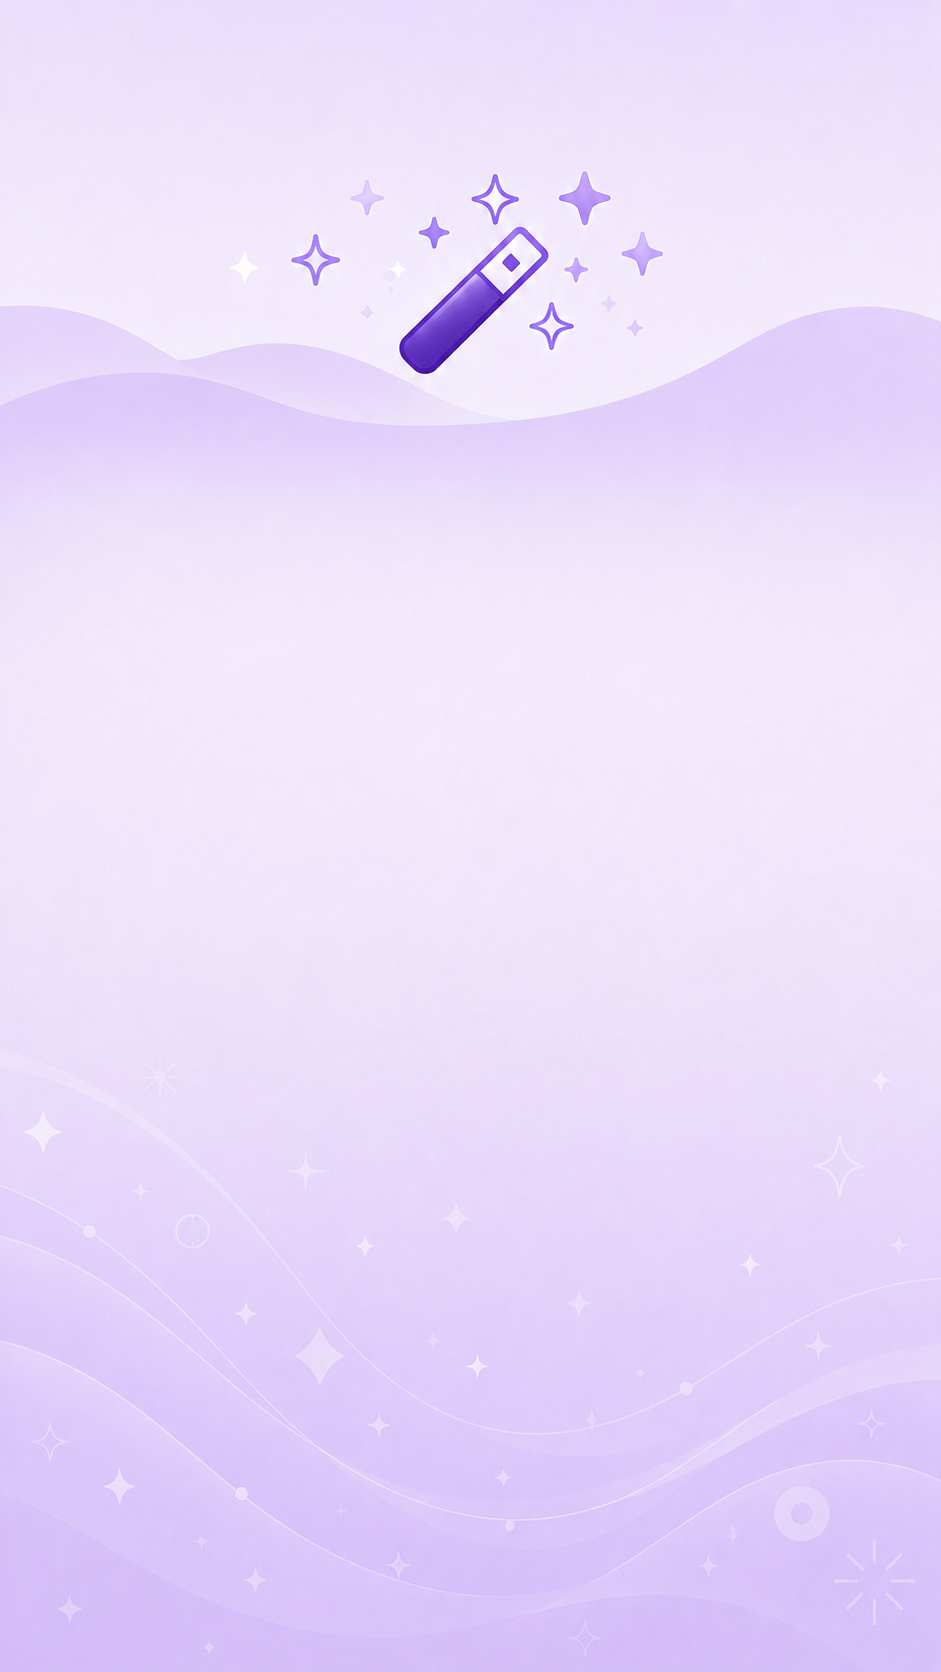
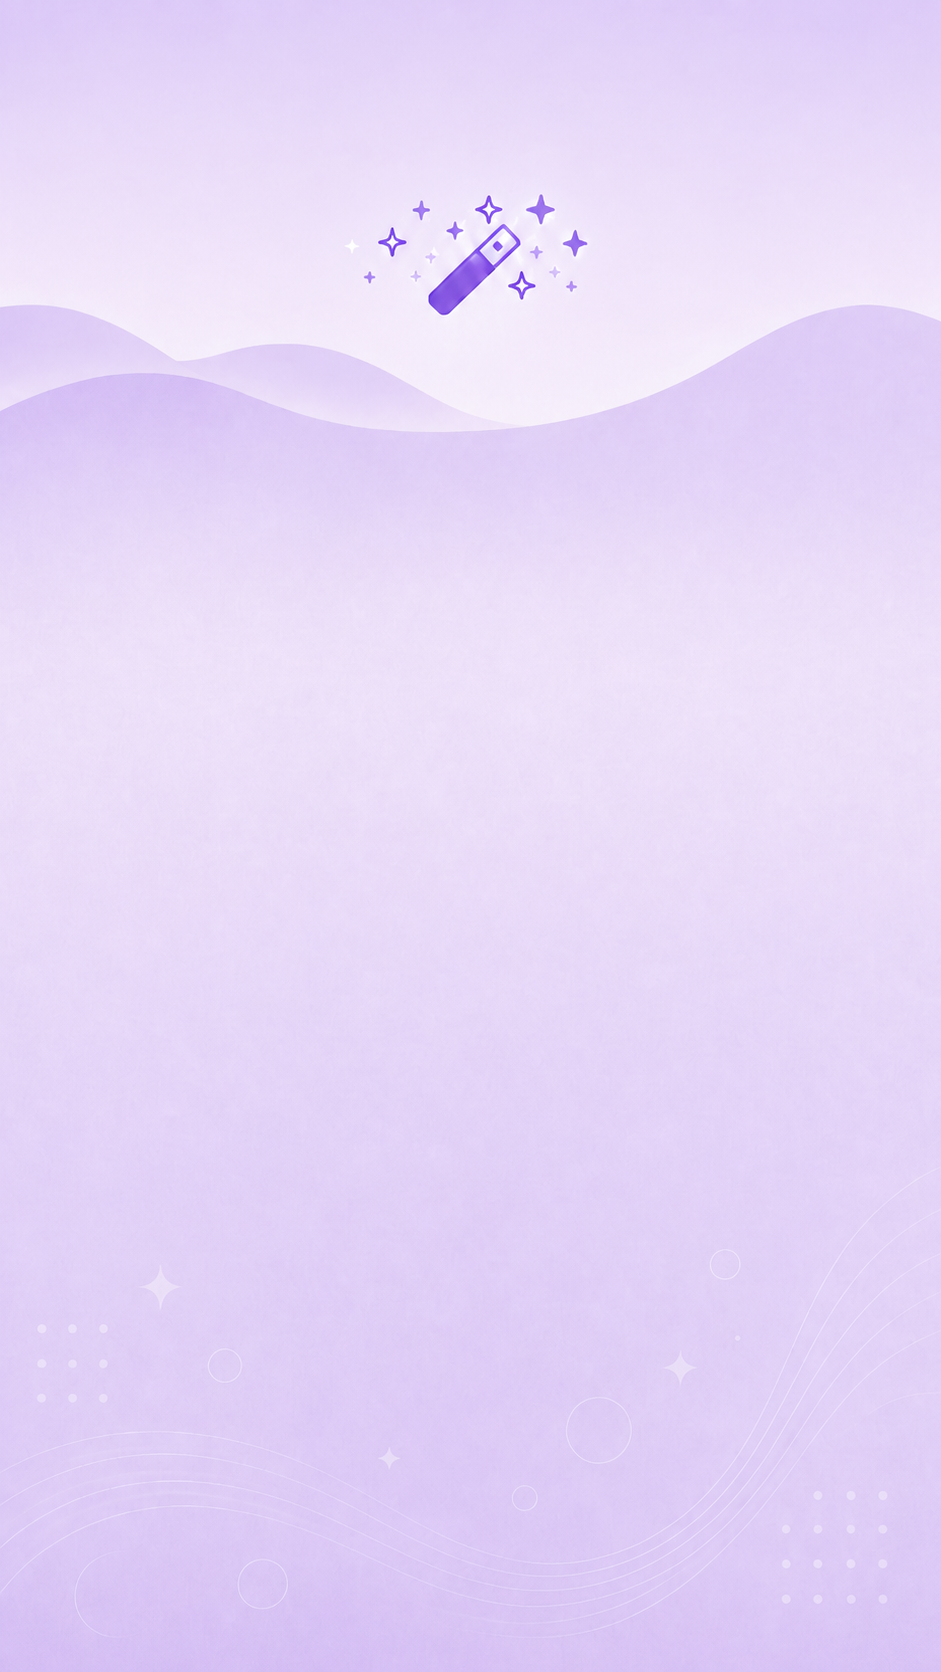
feat: standardize app title to 'ReplyWise' across all localizations and update related assets

diff --git a/app/test/locale_controller_test.dart b/app/test/locale_controller_test.dart
@@ -4,6 +4,7 @@ import 'dart:io';
 import 'package:flutter/material.dart';
 import 'package:flutter_riverpod/flutter_riverpod.dart';
 import 'package:flutter_test/flutter_test.dart';
+import 'package:replywise/core/constants/app_brand.dart';
 import 'package:replywise/core/localization/locale_controller.dart';
 import 'package:replywise/core/localization/localization_extensions.dart';
 import 'package:replywise/features/guidance/data/guidance_library_repository.dart';
@@ -11,6 +12,15 @@ import 'package:replywise/l10n/app_localizations.dart';
 import 'package:shared_preferences/shared_preferences.dart';
 
 void main() {
+  test('brand name is fixed across every supported localization', () async {
+    for (final locale in AppLocalizations.supportedLocales) {
+      final localizations = await AppLocalizations.delegate.load(locale);
+
+      expect(localizations.appTitle, appBrandName, reason: locale.toString());
+      expect(localizations.appTitle, 'ReplyWise', reason: locale.toString());
+    }
+  });
+
   test('every advertised locale has a complete message catalog', () {
     final directory = Directory('lib/l10n');
     final english =
@@ -119,6 +129,8 @@ void main() {
                     children: [
                       Text(context.l10n.settings),
                       Text(context.l10n.generateReply),
+                      const Text(appBrandName),
+                      Text(context.l10n.appTitle),
                       Text(context.l10n.premiumTitle),
                       Text(context.l10n.credits),
                     ],
@@ -139,8 +151,10 @@ void main() {
 
     expect(find.text('设置'), findsOneWidget);
     expect(find.text('生成回复'), findsOneWidget);
+    expect(find.text(appBrandName), findsNWidgets(2));
     expect(find.text('ReplyWise 高级版'), findsOneWidget);
     expect(find.text('积分'), findsOneWidget);
+    expect(find.text('ReplyWise'), findsNWidgets(2));
     expect(find.text('Generate Reply'), findsNothing);
     expect(find.text('Credits'), findsNothing);
   });

diff --git a/app/lib/features/home/home_screen.dart b/app/lib/features/home/home_screen.dart
@@ -2,8 +2,9 @@ import 'package:flutter/material.dart';
 import 'package:flutter_riverpod/flutter_riverpod.dart';
 import 'package:go_router/go_router.dart';
 
-import '../../core/router/app_router.dart';
+import '../../core/constants/app_brand.dart';
 import '../../core/localization/localization_extensions.dart';
+import '../../core/router/app_router.dart';
 import '../../core/theme/app_colors.dart';
 import '../../core/theme/app_feature_theme.dart';
 import '../../core/theme/app_text_styles.dart';
@@ -178,7 +179,7 @@ class _HomeNavBar extends StatelessWidget {
                     colors: [Color(0xFF3D6FFF), Color(0xFF00C2CB)],
                   ).createShader(bounds),
                   child: Text(
-                    context.l10n.appTitle,
+                    appBrandName,
                     maxLines: 1,
                     overflow: TextOverflow.ellipsis,
                     style: AppTextStyles.pageTitle.copyWith(

diff --git a/app/lib/l10n/app_localizations_ar.dart b/app/lib/l10n/app_localizations_ar.dart
@@ -9,7 +9,7 @@ class AppLocalizationsAr extends AppLocalizations {
   AppLocalizationsAr([String locale = 'ar']) : super(locale);
 
   @override
-  String get appTitle => 'الرد الحكيم';
+  String get appTitle => 'ReplyWise';
 
   @override
   String get systemDefault => 'إعداد النظام';
@@ -562,7 +562,7 @@ class AppLocalizationsAr extends AppLocalizations {
   String get replyCtaTitle => 'هل تريد ردًا يتوافق بشكل أفضل مع نيتك؟';
 
   @override
-  String get premiumTitle => 'الرد الحكيم بريميوم';
+  String get premiumTitle => 'ReplyWise بريميوم';
 
   @override
   String get back => 'خلف';

diff --git a/app/lib/l10n/app_localizations_es.dart b/app/lib/l10n/app_localizations_es.dart
@@ -9,7 +9,7 @@ class AppLocalizationsEs extends AppLocalizations {
   AppLocalizationsEs([String locale = 'es']) : super(locale);
 
   @override
-  String get appTitle => 'Responder sabiamente';
+  String get appTitle => 'ReplyWise';
 
   @override
   String get systemDefault => 'Predeterminado del sistema';
@@ -568,7 +568,7 @@ class AppLocalizationsEs extends AppLocalizations {
       '¿Quieres una respuesta que se ajuste mejor a tu intención?';
 
   @override
-  String get premiumTitle => 'ResponderWise Premium';
+  String get premiumTitle => 'ReplyWise Premium';
 
   @override
   String get back => 'Atrás';

diff --git a/app/lib/l10n/app_localizations_fr.dart b/app/lib/l10n/app_localizations_fr.dart
@@ -9,7 +9,7 @@ class AppLocalizationsFr extends AppLocalizations {
   AppLocalizationsFr([String locale = 'fr']) : super(locale);
 
   @override
-  String get appTitle => 'RépondreWise';
+  String get appTitle => 'ReplyWise';
 
   @override
   String get systemDefault => 'Langue du système';
@@ -568,7 +568,7 @@ class AppLocalizationsFr extends AppLocalizations {
       'Vous souhaitez une réponse qui correspond mieux à votre intention ?';
 
   @override
-  String get premiumTitle => 'RépondreWise Premium';
+  String get premiumTitle => 'ReplyWise Premium';
 
   @override
   String get back => 'Dos';

diff --git a/app/lib/l10n/app_localizations_hi.dart b/app/lib/l10n/app_localizations_hi.dart
@@ -9,7 +9,7 @@ class AppLocalizationsHi extends AppLocalizations {
   AppLocalizationsHi([String locale = 'hi']) : super(locale);
 
   @override
-  String get appTitle => 'उत्तर बुद्धिमानी से दें';
+  String get appTitle => 'ReplyWise';
 
   @override
   String get systemDefault => 'सिस्टम डिफ़ॉल्ट';
@@ -566,7 +566,7 @@ class AppLocalizationsHi extends AppLocalizations {
       'क्या आप ऐसा उत्तर चाहते हैं जो आपके इरादे से बेहतर मेल खाता हो?';
 
   @override
-  String get premiumTitle => 'उत्तरवार प्रीमियम';
+  String get premiumTitle => 'ReplyWise प्रीमियम';
 
   @override
   String get back => 'पीछे';

diff --git a/app/lib/l10n/app_localizations_id.dart b/app/lib/l10n/app_localizations_id.dart
@@ -9,7 +9,7 @@ class AppLocalizationsId extends AppLocalizations {
   AppLocalizationsId([String locale = 'id']) : super(locale);
 
   @override
-  String get appTitle => 'Balasan Bijaksana';
+  String get appTitle => 'ReplyWise';
 
   @override
   String get systemDefault => 'Default sistem';
@@ -566,7 +566,7 @@ class AppLocalizationsId extends AppLocalizations {
       'Ingin balasan yang lebih sesuai dengan niat Anda?';
 
   @override
-  String get premiumTitle => 'Balasan Bijaksana Premium';
+  String get premiumTitle => 'ReplyWise Premium';
 
   @override
   String get back => 'Kembali';

diff --git a/app/lib/l10n/app_localizations_ja.dart b/app/lib/l10n/app_localizations_ja.dart
@@ -9,7 +9,7 @@ class AppLocalizationsJa extends AppLocalizations {
   AppLocalizationsJa([String locale = 'ja']) : super(locale);
 
   @override
-  String get appTitle => '返信ワイズ';
+  String get appTitle => 'ReplyWise';
 
   @override
   String get systemDefault => 'システムのデフォルト';
@@ -549,7 +549,7 @@ class AppLocalizationsJa extends AppLocalizations {
   String get replyCtaTitle => '自分の意図にもっと合致する返信が欲しいですか?';
 
   @override
-  String get premiumTitle => 'リプライワイズ プレミアム';
+  String get premiumTitle => 'ReplyWise プレミアム';
 
   @override
   String get back => '戻る';

diff --git a/app/lib/l10n/app_localizations_ko.dart b/app/lib/l10n/app_localizations_ko.dart
@@ -9,7 +9,7 @@ class AppLocalizationsKo extends AppLocalizations {
   AppLocalizationsKo([String locale = 'ko']) : super(locale);
 
   @override
-  String get appTitle => '답글 현명하게';
+  String get appTitle => 'ReplyWise';
 
   @override
   String get systemDefault => '시스템 기본값';
@@ -548,7 +548,7 @@ class AppLocalizationsKo extends AppLocalizations {
   String get replyCtaTitle => '귀하의 의도에 더 잘 맞는 답변을 원하시나요?';
 
   @override
-  String get premiumTitle => '댓글와이즈 프리미엄';
+  String get premiumTitle => 'ReplyWise 프리미엄';
 
   @override
   String get back => '뒤쪽에';

diff --git a/app/lib/l10n/app_localizations_pl.dart b/app/lib/l10n/app_localizations_pl.dart
@@ -9,7 +9,7 @@ class AppLocalizationsPl extends AppLocalizations {
   AppLocalizationsPl([String locale = 'pl']) : super(locale);
 
   @override
-  String get appTitle => 'Odpowiedz mądrze';
+  String get appTitle => 'ReplyWise';
 
   @override
   String get systemDefault => 'Domyślny systemu';
@@ -567,7 +567,7 @@ class AppLocalizationsPl extends AppLocalizations {
       'Chcesz otrzymać odpowiedź, która lepiej odpowiada Twoim intencjom?';
 
   @override
-  String get premiumTitle => 'RepWise Premium';
+  String get premiumTitle => 'ReplyWise Premium';
 
   @override
   String get back => 'Z powrotem';

diff --git a/app/lib/l10n/app_localizations_pt.dart b/app/lib/l10n/app_localizations_pt.dart
@@ -9,7 +9,7 @@ class AppLocalizationsPt extends AppLocalizations {
   AppLocalizationsPt([String locale = 'pt']) : super(locale);
 
   @override
-  String get appTitle => 'ResponderWise';
+  String get appTitle => 'ReplyWise';
 
   @override
   String get systemDefault => 'Padrão do sistema';
@@ -566,7 +566,7 @@ class AppLocalizationsPt extends AppLocalizations {
       'Quer uma resposta que corresponda melhor à sua intenção?';
 
   @override
-  String get premiumTitle => 'ResponderWise Premium';
+  String get premiumTitle => 'ReplyWise Premium';
 
   @override
   String get back => 'Voltar';

diff --git a/app/lib/l10n/app_localizations_th.dart b/app/lib/l10n/app_localizations_th.dart
@@ -9,7 +9,7 @@ class AppLocalizationsTh extends AppLocalizations {
   AppLocalizationsTh([String locale = 'th']) : super(locale);
 
   @override
-  String get appTitle => 'ตอบกลับWise';
+  String get appTitle => 'ReplyWise';
 
   @override
   String get systemDefault => 'ค่าเริ่มต้นของระบบ';
@@ -566,7 +566,7 @@ class AppLocalizationsTh extends AppLocalizations {
   String get replyCtaTitle => 'ต้องการคำตอบที่ตรงกับความตั้งใจของคุณหรือไม่?';
 
   @override
-  String get premiumTitle => 'รีพลายไวส์ พรีเมียม';
+  String get premiumTitle => 'ReplyWise พรีเมียม';
 
   @override
   String get back => 'กลับ';